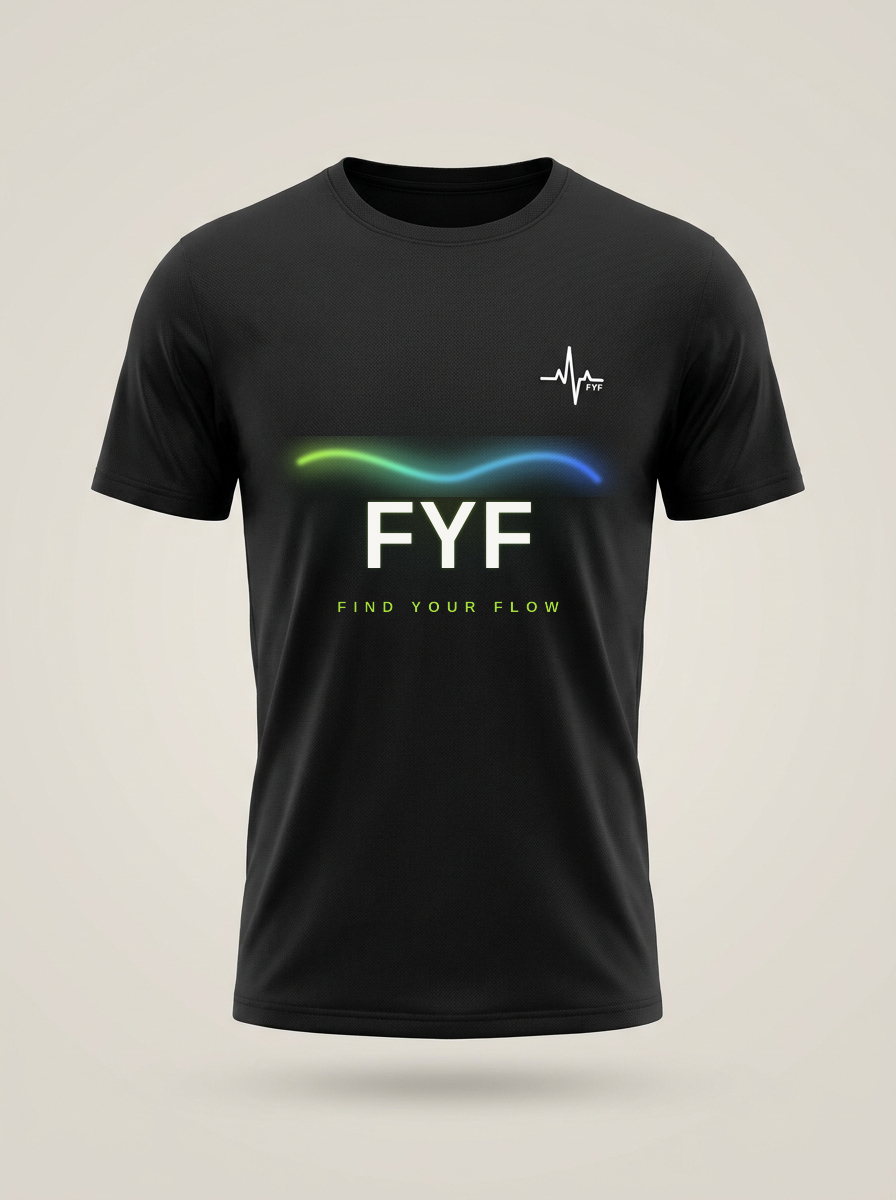
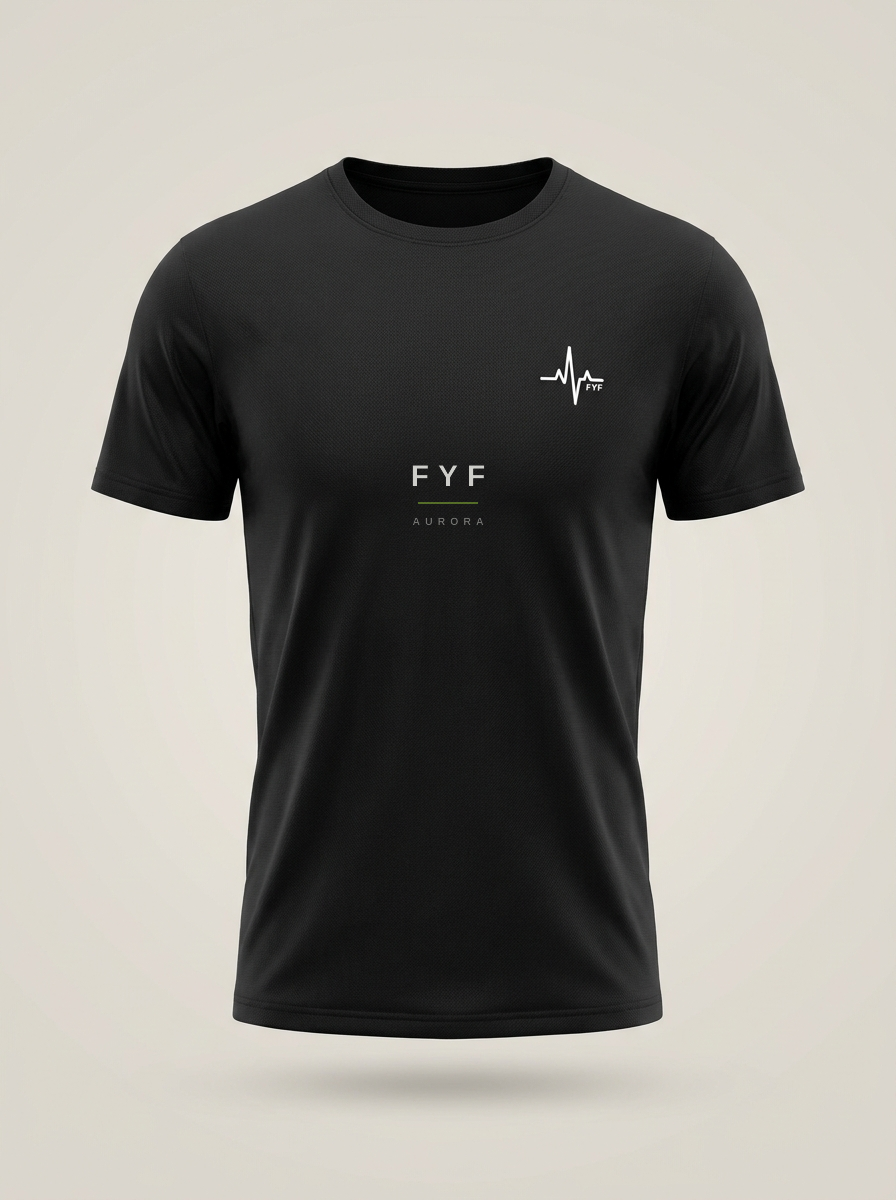
Premium minimal redesign: Aurora Tee image + product buy area
On/룰루레몬 무드의 콰이엇 럭셔리 방향으로 정리.
- 상품 이미지: 무지개 빌보드 그래픽 제거 → 작은 톤온톤 'FYF' 로크업 +
  라임 헤어라인 한 줄(AURORA)만 남긴 미니멀 컷
- 상품 구매영역: 강조 색(blue %)·볼드/대문자 트래킹 완화,
  가격·디테일 타이포를 가볍고 여백 있게 리파인

https://claude.ai/code/session_01Fb16Ynn1ki5iSUoVodsm4t

Changed region(s): [[0.3125, 0.3392, 0.6875, 0.5242], [0.5938, 0.4933, 0.625, 0.5242], [0.5, 0.4933, 0.5312, 0.5242]]

diff --git a/app/product/[slug]/page.tsx b/app/product/[slug]/page.tsx
@@ -80,29 +80,29 @@ export default async function ProductPage({
 
           {/* 정보 (스티키) */}
           <div className="lg:sticky lg:top-24 lg:h-fit">
-            <p className="text-xs font-bold uppercase tracking-[0.3em] text-ink/40">
+            <p className="text-[11px] font-medium uppercase tracking-[0.28em] text-ink/40">
               {product.categoryKo} · {product.color}
             </p>
-            <h1 className="font-display mt-3 text-4xl leading-[1.05] md:text-5xl">
+            <h1 className="font-display mt-4 text-[2.5rem] leading-[1.04] md:text-5xl">
               {product.name.toUpperCase()}
             </h1>
-            <p className="mt-2 text-base font-bold text-ink/55">
+            <p className="mt-2.5 text-[15px] font-medium text-ink/50">
               {product.nameKo} — {product.tagline}
             </p>
 
-            <div className="mt-7 flex items-baseline gap-3 border-t border-ink/10 pt-7">
-              <span className="text-3xl font-extrabold tracking-tight">
+            <div className="mt-8 flex items-baseline gap-3 border-t border-ink/10 pt-8">
+              <span className="text-[28px] font-semibold tracking-tight">
                 {formatKRW(product.price)}
               </span>
-              <span className="text-base text-ink/35 line-through">
+              <span className="text-sm text-ink/30 line-through">
                 {formatKRW(product.listPrice)}
               </span>
-              <span className="text-base font-extrabold text-flow">
-                {discount}%
+              <span className="text-sm font-medium text-ink/40">
+                −{discount}%
               </span>
             </div>
 
-            <p className="mt-5 max-w-md leading-relaxed text-ink/60">
+            <p className="mt-5 max-w-md leading-relaxed text-ink/55">
               {product.description}
             </p>
 
@@ -110,7 +110,7 @@ export default async function ProductPage({
               <AddToCart product={product} />
             </div>
 
-            <p className="mt-5 text-center text-[11px] font-bold uppercase tracking-[0.2em] text-ink/35">
+            <p className="mt-5 text-center text-xs tracking-wide text-ink/45">
               5만원 이상 무료배송 · 1–3일 내 출고 · 7일 무료 교환
             </p>
 
@@ -118,9 +118,9 @@ export default async function ProductPage({
               {product.details.map((d) => (
                 <li
                   key={d}
-                  className="flex gap-3 border-b border-ink/10 py-3 text-sm text-ink/65"
+                  className="flex gap-3 border-b border-ink/10 py-3 text-sm text-ink/60"
                 >
-                  <span className="text-flow">—</span>
+                  <span className="text-ink/25">—</span>
                   {d}
                 </li>
               ))}